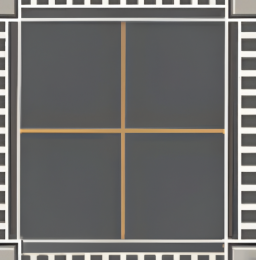
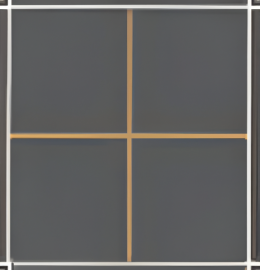
🎨 style(JJunction.java): change background color to green and set size using setSize method 🖼 chore(images): update intersection.png image file. No functional changes.

Changed region(s): [[0.0, 0.0, 1.0, 1.0], [0.7812, 0.4923, 0.8438, 0.5231], [0.8125, 0.9846, 0.8438, 1.0]]

diff --git a/junctionManagement/src/env/main/junctionframework/JJunction.java b/junctionManagement/src/env/main/junctionframework/JJunction.java
@@ -21,7 +21,9 @@ public class JJunction extends JPanel{
      */
     public JJunction() {
         super(true);
-        this.setPreferredSize(new Dimension(260, 260));
+
+        this.setBackground(Color.GREEN);
+        this.setSize(260, 260);
 
         this.path = "src/env/main/junctionframework/images/intersection.png";
 
